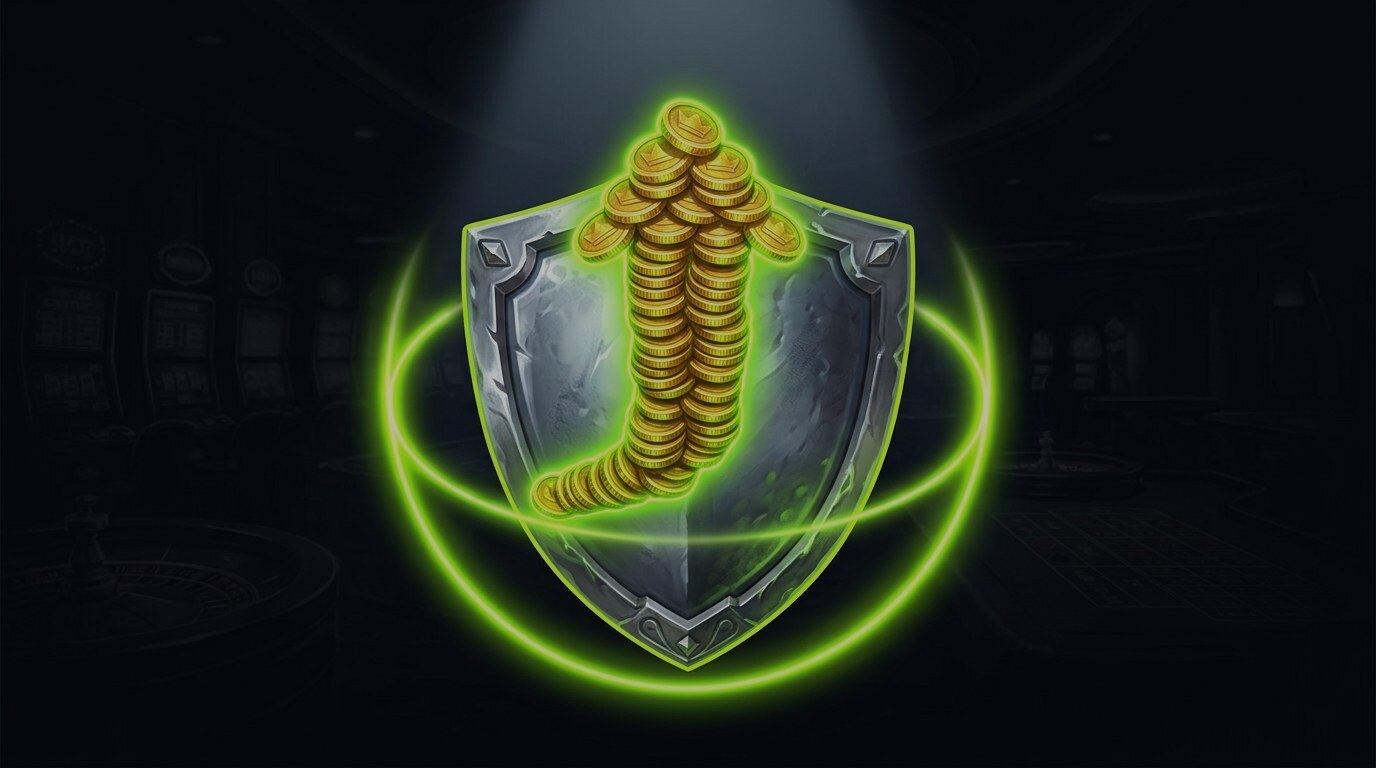
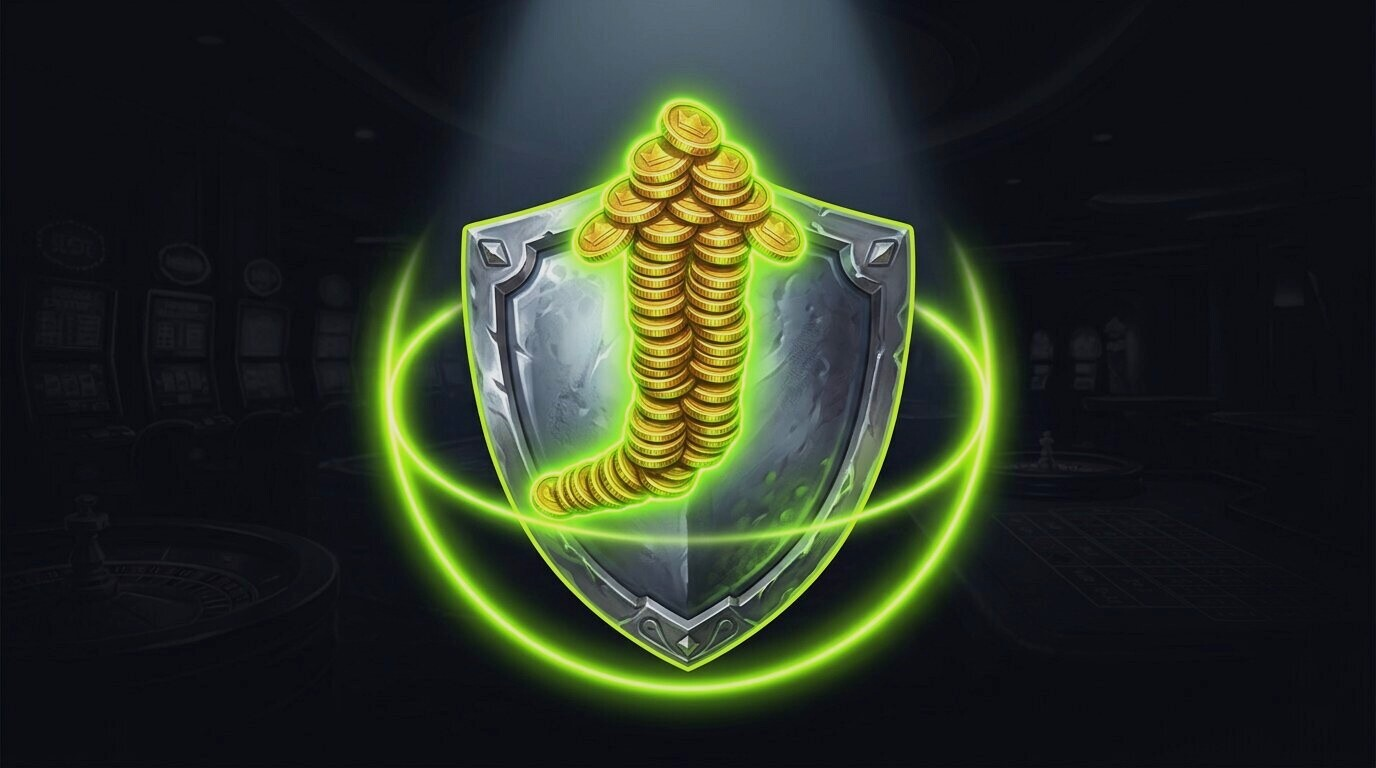
Promo cards: revert heavy glass, light faded glass + brighter art
- Artwork lifted ~17% → ~24% avg luminance (x1.55 + gentle contrast) so the
  painting is visible again — the real visibility fix
- Glass back to subtle faded: pills rgb(18,20,26)/0.5 blur 16px, play circle
  /0.45, bottom bar classic scrim 92/60/15%, card veil light (5%→38%)
- reduced-transparency variants follow the lighter values

Changed region(s): [[0.25, 0.0938, 0.75, 0.9375], [0.4375, 0.0, 0.5625, 0.0625]]

diff --git a/src/app/originals.css b/src/app/originals.css
@@ -110,8 +110,8 @@
     0 12px 32px rgb(0 0 0 / 0.35),
     inset 0 1px 0 rgb(255 255 255 / 0.06);
 }
-/* Faded veil across the whole art — keeps every label legible while the
-   painting still glows through at the top. */
+/* Light scrim — faded: the art stays the hero; just enough darkness at the
+   bottom for the title/reward to read. */
 .tols-promo-card::after {
   content: "";
   position: absolute;
@@ -119,7 +119,7 @@
   z-index: 0;
   pointer-events: none;
   background:
-    linear-gradient(to bottom, rgb(8 9 12 / 0.18) 0%, rgb(8 9 12 / 0.1) 42%, rgb(8 9 12 / 0.6) 100%);
+    linear-gradient(to bottom, rgb(8 9 12 / 0.05) 0%, rgb(8 9 12 / 0.02) 45%, rgb(8 9 12 / 0.38) 100%);
 }
 .tols-promo-card:hover {
   border-color: rgb(255 255 255 / 0.18);
@@ -132,11 +132,11 @@
 /* Translucent material — blur + saturate, bright top edge = light catching
    the glass. Used by pills, the play circle and chrome chips. */
 .tols-promo-glass {
-  background: rgb(10 11 15 / 0.82);
-  backdrop-filter: blur(18px) saturate(150%);
-  -webkit-backdrop-filter: blur(18px) saturate(150%);
-  border: 1px solid rgb(255 255 255 / 0.16);
-  box-shadow: inset 0 1px 0 rgb(255 255 255 / 0.18);
+  background: rgb(18 20 26 / 0.45);
+  backdrop-filter: blur(16px) saturate(160%);
+  -webkit-backdrop-filter: blur(16px) saturate(160%);
+  border: 1px solid rgb(255 255 255 / 0.14);
+  box-shadow: inset 0 1px 0 rgb(255 255 255 / 0.22);
 }
 
 /* Pills — small labels open their tracking (Apple: +tracking at small sizes). */
@@ -152,12 +152,12 @@
   text-transform: uppercase;
   line-height: 1;
   white-space: nowrap;
-  background: rgb(9 10 14 / 0.82);
-  backdrop-filter: blur(18px) saturate(150%);
-  -webkit-backdrop-filter: blur(18px) saturate(150%);
-  border: 1px solid rgb(255 255 255 / 0.18);
-  box-shadow: inset 0 1px 0 rgb(255 255 255 / 0.2), 0 2px 10px rgb(0 0 0 / 0.35);
-  color: rgb(255 255 255 / 0.92);
+  background: rgb(18 20 26 / 0.5);
+  backdrop-filter: blur(16px) saturate(160%);
+  -webkit-backdrop-filter: blur(16px) saturate(160%);
+  border: 1px solid rgb(255 255 255 / 0.16);
+  box-shadow: inset 0 1px 0 rgb(255 255 255 / 0.24), 0 2px 8px rgb(0 0 0 / 0.25);
+  color: rgb(255 255 255 / 0.95);
 }
 .tols-promo-pill-kind {
   color: var(--color-lime);
@@ -189,10 +189,10 @@
   width: 3rem;
   height: 3rem;
   border-radius: 999px;
-  background: rgb(9 10 14 / 0.72);
-  backdrop-filter: blur(14px) saturate(150%);
-  -webkit-backdrop-filter: blur(14px) saturate(150%);
-  border: 1px solid color-mix(in oklab, var(--color-lime) 60%, transparent);
+  background: rgb(18 20 26 / 0.45);
+  backdrop-filter: blur(12px) saturate(160%);
+  -webkit-backdrop-filter: blur(12px) saturate(160%);
+  border: 1px solid color-mix(in oklab, var(--color-lime) 65%, transparent);
   color: var(--color-lime);
   box-shadow:
     0 8px 24px rgb(0 0 0 / 0.4),
@@ -229,9 +229,9 @@
   justify-content: space-between;
   gap: 0.75rem;
   padding: 2.75rem 0.875rem 0.78rem;
-  background: linear-gradient(to top, rgb(8 9 12 / 0.96) 0%, rgb(8 9 12 / 0.8) 55%, rgb(8 9 12 / 0.35) 100%);
-  backdrop-filter: blur(10px) saturate(140%);
-  -webkit-backdrop-filter: blur(10px) saturate(140%);
+  background: linear-gradient(to top, rgb(8 9 12 / 0.92) 0%, rgb(8 9 12 / 0.6) 52%, rgb(8 9 12 / 0.15) 100%);
+  backdrop-filter: blur(8px) saturate(150%);
+  -webkit-backdrop-filter: blur(8px) saturate(150%);
 }
 /* Bright top edge — the material catching the light (Apple hairline). */
 .tols-promo-pill,
@@ -298,13 +298,13 @@
   .tols-promo-glass {
     backdrop-filter: none;
     -webkit-backdrop-filter: none;
-    background: rgb(9 10 14 / 0.96);
+    background: rgb(12 13 18 / 0.92);
   }
   .tols-promo-play {
-    background: rgb(9 10 14 / 0.94);
+    background: rgb(12 13 18 / 0.9);
   }
   .tols-promo-bar {
-    background: linear-gradient(to top, rgb(8 9 12 / 0.99) 0%, rgb(8 9 12 / 0.94) 55%, rgb(8 9 12 / 0.7) 100%);
+    background: linear-gradient(to top, rgb(8 9 12 / 0.97) 0%, rgb(8 9 12 / 0.82) 55%, rgb(8 9 12 / 0.45) 100%);
   }
 }
 

diff --git a/worklog.md b/worklog.md
@@ -2409,3 +2409,15 @@ transparent. Made the glass FADED (opaque, frosted):
   still glows at the top but every label sits on a quiet surface
 - Chrome (pills/play/bar) raised to z-index 1 above the veil
 - reduced-transparency variants bumped to match (≥94% opacity)
+
+## Promo cards: light "faded" glass + brighter art (2026-08-20, fix)
+
+The previous heavy fade (82-96% opaque) was worse — it killed the artwork.
+Real cause of low visibility was the over-darkened art. Fixed both:
+
+- Artwork brightened back (~17% → ~24% avg luminance, ×1.55 + slight contrast)
+  so the painting is the hero again; still moody/painted, game-tile family
+- Glass made light and airy ("faded" = subtle): pills rgb(18,20,26)/0.5 with
+  blur 16px + bright inner top edge, play circle /0.45, bar = classic scrim
+  (92% bottom → 60% mid → 15% top, blur 8px), whole-card veil reduced to a
+  light legibility gradient (5% → 38%)
